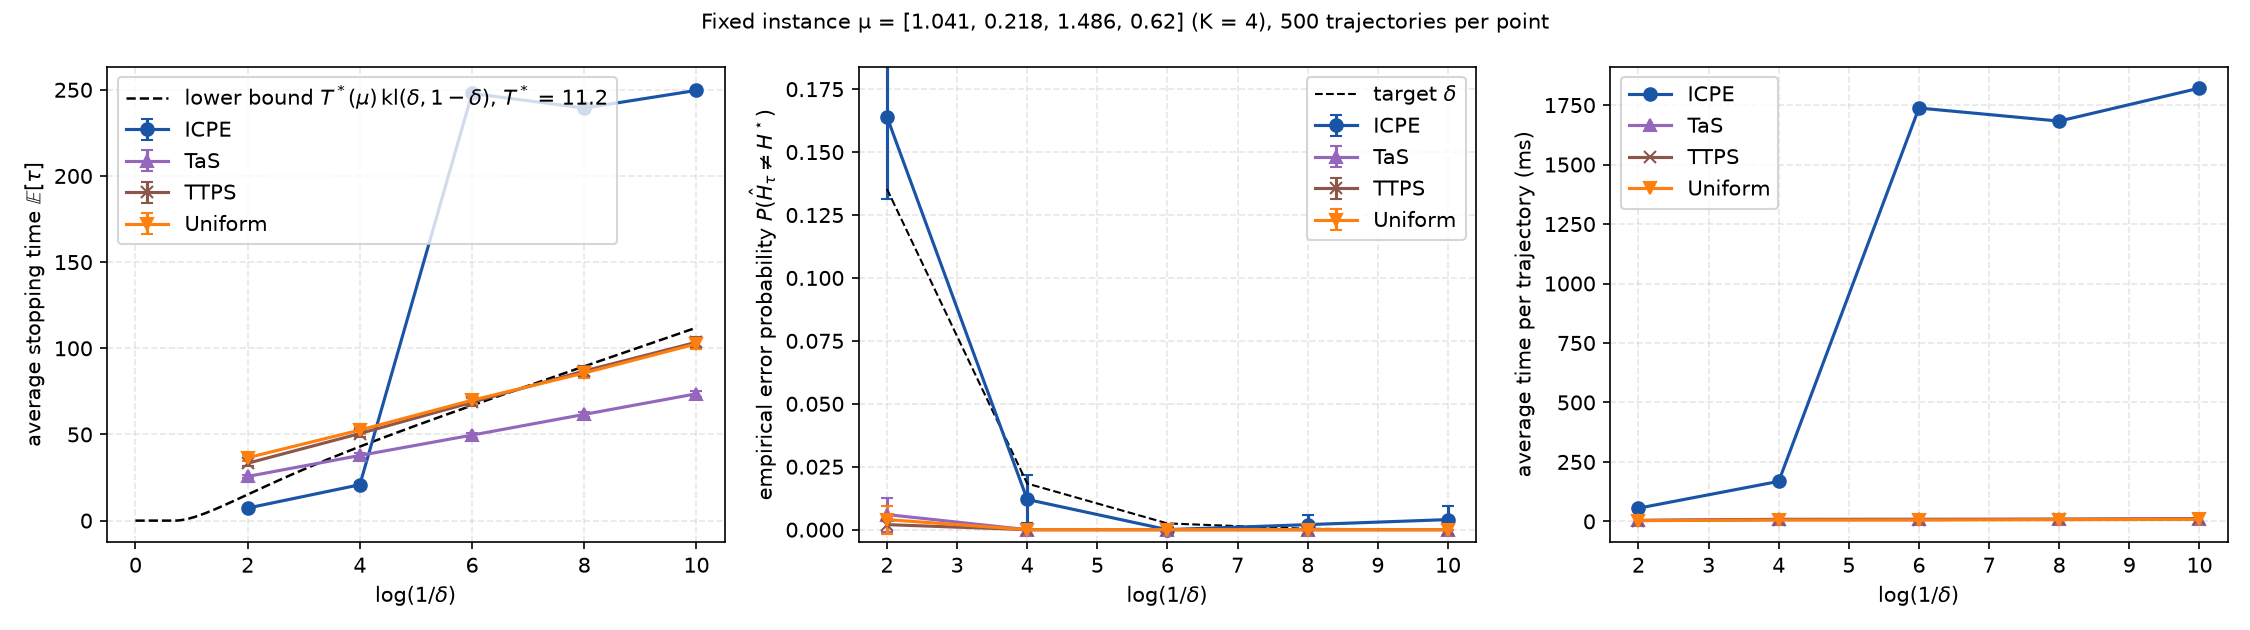
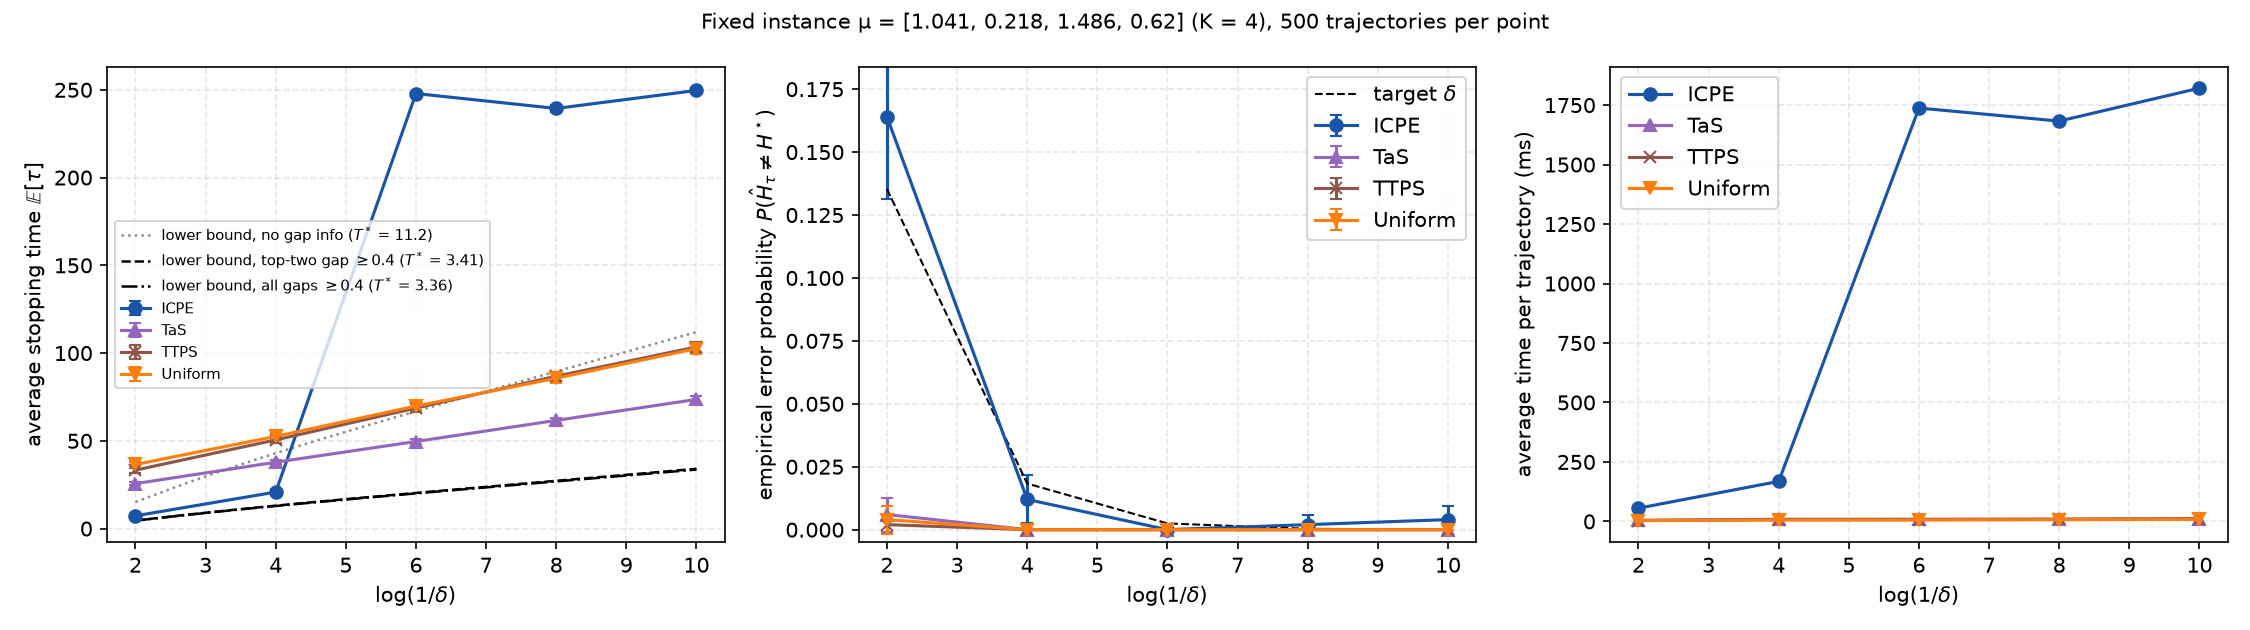
Structured lower bounds (top-two / all gaps >= 0.4); plots start at delta = e^-2

diff --git a/plot_fixed_instance.py b/plot_fixed_instance.py
@@ -3,14 +3,20 @@ Plots for eval_fixed_instance.py (NEW CODE, not from the ICPE repository).
 
 Reads <dir>/summary.csv and <dir>/environment.json and saves
   <dir>/tau_vs_log_delta.png        average stopping time vs log(1/delta), one line per algorithm (95% CI),
-                                    with the lower bound T*(mu) kl(delta, 1 - delta) of the fixed instance
+                                    with three lower bounds T*_S(mu) kl(delta, 1 - delta) of the fixed instance:
+                                    S = all Gaussian bandits (no gap information), S = bandits whose best arm
+                                    beats every other arm by >= gap (the class of Thm. B.25), and S = bandits
+                                    whose arms all differ by >= gap (the prior used in the code)
+  <dir>/lower_bounds.json            the three T*_S(mu) and optimal weights (cached; recomputed if mu changes)
   <dir>/fixed_instance_panels.png   (a) average stopping time, (b) empirical error probability with the
                                     target delta, (c) average wall time per trajectory
 
 Usage: python plot_fixed_instance.py [--dir runs_delta_sweep/fixed_instance]
 """
 import argparse
+import itertools
 import json
+import math
 import os
 import numpy as np
 import pandas as pd
@@ -55,9 +61,116 @@ def lower_bound(means: np.ndarray, sigma: float, deltas: np.ndarray) -> np.ndarr
 STYLE = {'ICPE': ('#1a54a6', 'o'), 'TaS': ('#9467bd', '^'), 'TTPS': ('#8c564b', 'x'), 'Uniform': ('#ff7f0e', 'v')}
 
 
+def _pava(y: np.ndarray, w: np.ndarray) -> np.ndarray:
+    """Weighted isotonic (non-decreasing) regression of y with weights w (pool adjacent violators)."""
+    blocks = []                                        # [value, weight, length]
+    for yi, wi in zip(y, w):
+        blocks.append([yi, wi, 1])
+        while len(blocks) > 1 and blocks[-2][0] > blocks[-1][0]:
+            v2, w2, n2 = blocks.pop()
+            v1, w1, n1 = blocks.pop()
+            blocks.append([(v1 * w1 + v2 * w2) / (w1 + w2), w1 + w2, n1 + n2])
+    return np.array([v for v, _, n in blocks for _ in range(n)])
+
+
+def _closest_alternative_all(mu, w, gap, best):
+    """min of sum_a w_a (mu_a - lambda_a)^2 over lambda whose arms all differ by >= gap and whose best arm
+    is not `best`: for each order of the arms the constraints are linear, and substituting
+    nu_i = lambda_(i) - i*gap turns them into an isotonic regression."""
+    K, val = len(mu), np.inf
+    shift = gap * np.arange(K)
+    for perm in itertools.permutations(range(K)):      # perm = arms in increasing order of lambda
+        if perm[-1] == best:
+            continue
+        p = np.array(perm)
+        lam = _pava(mu[p] - shift, w[p] + 1e-15) + shift
+        val = min(val, float(np.sum(w[p] * (mu[p] - lam) ** 2)))
+    return val
+
+
+def _closest_alternative_top2(mu, w, gap, best):
+    """min of sum_a w_a (mu_a - lambda_a)^2 over lambda whose best arm b != `best` beats every other arm by
+    >= gap: for fixed lambda_b = x the others are lowered to min(mu_c, x - gap); convex in x (ternary search)."""
+    val = np.inf
+    for b in range(len(mu)):
+        if b == best:
+            continue
+        others = [c for c in range(len(mu)) if c != b]
+        g = lambda x: w[b] * (mu[b] - x) ** 2 + sum(w[c] * max(0.0, mu[c] - (x - gap)) ** 2 for c in others)
+        lo, hi = mu.min() - 2.0, mu.max() + 2.0
+        for _ in range(80):
+            m1, m2 = lo + (hi - lo) / 3, hi - (hi - lo) / 3
+            if g(m1) < g(m2):
+                hi = m2
+            else:
+                lo = m1
+        val = min(val, g((lo + hi) / 2))
+    return val
+
+
+def structured_characteristic_time(means: np.ndarray, sigma: float, gap: float, mode: str,
+                                   iters: int = 800, seed: int = 0) -> tuple:
+    """T*_S(mu) for Gaussian BAI over a restricted class S (Garivier and Kaufmann, 2016, with structure):
+
+        T*_S(mu)^-1 = max_w  min_{lambda in S, best(lambda) != best(mu)}  sum_a w_a (mu_a - lambda_a)^2 / (2 sigma^2)
+
+    mode='top2': S = bandits whose best arm beats every other arm by >= gap (Thm. B.25; gap = 0 gives the usual T*);
+    mode='all' : S = bandits whose arms all differ by >= gap (the prior of the code: minimum_gap_sampling).
+    The objective is concave in w; it is maximised by exponentiated (super)gradient ascent from several starts.
+    Any algorithm that is delta-correct on every bandit of S needs E[tau] >= T*_S(mu) kl(delta, 1 - delta).
+    """
+    mu = np.asarray(means, float)
+    K, best = len(mu), int(np.argmax(mu))
+    inner = _closest_alternative_all if mode == 'all' else _closest_alternative_top2
+    F = lambda w: inner(mu, w, gap, best) / (2 * sigma ** 2)
+    rng = np.random.default_rng(seed)
+    best_val, best_w = -1.0, None
+    for w in [np.ones(K) / K] + [rng.dirichlet(np.ones(K)) for _ in range(3)]:
+        w = w.copy()
+        for k in range(1, iters + 1):
+            f = F(w)
+            if f > best_val:
+                best_val, best_w = f, w.copy()
+            eps = 1e-6
+            gr = np.array([(F(w + eps * np.eye(K)[a]) - f) / eps for a in range(K)])
+            w = w * np.exp(0.5 / math.sqrt(k) * gr / (np.abs(gr).max() + 1e-12))
+            w /= w.sum()
+    return 1.0 / best_val, best_w
+
+
+def characteristic_times(means: np.ndarray, sigma: float, gap: float, cache: str = None) -> dict:
+    """The three T*_S(mu) used in the plots and the results table (cached in `cache` as JSON)."""
+    key = {'means': [round(float(m), 10) for m in means], 'sigma': sigma, 'gap': gap}
+    if cache and os.path.exists(cache):
+        with open(cache) as f:
+            c = json.load(f)
+        if c.get('key') == key:
+            return c['T']
+    T0, w0 = characteristic_time(np.asarray(means, float), sigma)
+    T1, w1 = structured_characteristic_time(means, sigma, gap, 'top2')
+    T2, w2 = structured_characteristic_time(means, sigma, gap, 'all')
+    T = {'none': T0, 'top2': T1, 'all': T2}
+    if cache:
+        with open(cache, 'w') as f:
+            json.dump({'key': key, 'T': T, 'weights': {'none': list(map(float, w0)), 'top2': list(map(float, w1)),
+                       'all': list(map(float, w2))}}, f, indent=2)
+    return T
+
+
+LB_LABELS = {'none': 'Lower bound, no gap information', 'top2': 'Lower bound, top-two gap ≥ 0.4',
+             'all': 'Lower bound, all gaps ≥ 0.4'}
+
+
+def lower_bounds(T: dict, deltas: np.ndarray) -> dict:
+    """E[tau] >= T*_S kl(delta, 1 - delta) for delta < 1/2 (0 otherwise), for each class S."""
+    kl = np.array([kl_bernoulli(d, 1 - d) if d < 0.5 else 0.0 for d in deltas])
+    return {k: v * kl for k, v in T.items()}
+
+
 def main():
     p = argparse.ArgumentParser()
     p.add_argument('--dir', default='runs_delta_sweep/fixed_instance')
+    p.add_argument('--gap', type=float, default=0.4, help='known minimum gap used by the structured lower bounds')
     a = p.parse_args()
     df = pd.read_csv(os.path.join(a.dir, 'summary.csv'))
     with open(os.path.join(a.dir, 'environment.json')) as f:
@@ -68,13 +181,17 @@ def main():
              f"{n} trajectories per point")
 
     means, sigma = np.array(env['means']), float(env['stds'][0])
-    T, w = characteristic_time(means, sigma)
-    print(f'T*(mu) = {T:.3f}, optimal weights w* = {np.round(w, 3)}')
-    xs_lb = np.linspace(0, float(df.log_inv_delta.max()), 200)
-    lb = lower_bound(means, sigma, np.exp(-xs_lb))
+    T = characteristic_times(means, sigma, a.gap, cache=os.path.join(a.dir, 'lower_bounds.json'))
+    print('T*_S(mu): ' + ', '.join(f'{k} = {v:.3f}' for k, v in T.items()))
+    xs_lb = np.linspace(float(df.log_inv_delta.min()), float(df.log_inv_delta.max()), 200)   # only the evaluated range
+    lbs = lower_bounds(T, np.exp(-xs_lb))
+    lb_style = {'none': dict(color='0.55', ls=':', label=rf'lower bound, no gap info ($T^*$ = {T["none"]:.1f})'),
+                'top2': dict(color='k', ls='--', label=rf'lower bound, top-two gap $\geq${a.gap:g} ($T^*$ = {T["top2"]:.2f})'),
+                'all':  dict(color='k', ls='-.', label=rf'lower bound, all gaps $\geq${a.gap:g} ($T^*$ = {T["all"]:.2f})')}
 
     def tau_panel(ax):
-        ax.plot(xs_lb, lb, 'k--', lw=1.2, label=rf'lower bound $T^*(\mu)\,\mathrm{{kl}}(\delta,1-\delta)$, $T^*$ = {T:.1f}')
+        for k in ['none', 'top2', 'all']:
+            ax.plot(xs_lb, lbs[k], lw=1.2, **lb_style[k])
         for algo in algos:
             d = df[df.algo == algo].sort_values('log_inv_delta')
             c, m = STYLE[algo]
@@ -82,7 +199,7 @@ def main():
         ax.set_xlabel(r'$\log(1/\delta)$')
         ax.set_ylabel(r'average stopping time $\mathbb{E}[\tau]$')
         ax.grid(True, linestyle='--', alpha=0.3)
-        ax.legend()
+        ax.legend(fontsize=7)
 
     fig, ax = plt.subplots(figsize=(6, 4.2))
     tau_panel(ax)

diff --git a/make_results_table.py b/make_results_table.py
@@ -8,7 +8,8 @@ per (delta, algorithm):
   arm / all trajectories), empirical error probability (1 - accuracy), and the number of trajectories that
   never reached a_stop (every trajectory runs until a_stop; this count checks that all of them did, i.e.
   that ICPE never ran out of its N input positions; the baselines have no limit)
-plus, for every delta, a row with the lower bound T*(mu) kl(delta, 1 - delta) of the fixed instance
+plus, for every delta, three lower-bound rows T*_S(mu) kl(delta, 1 - delta) of the fixed instance (no gap
+information; top-two gap >= 0.4; all gaps >= 0.4), see plot_fixed_instance.characteristic_times
 as <dir>/results_table.csv (numbers) and <dir>/results_table.md (formatted, for reading or pasting).
 
 Usage: python make_results_table.py [--dir runs_delta_sweep/fixed_instance]
@@ -18,7 +19,7 @@ import json
 import os
 import numpy as np
 import pandas as pd
-from plot_fixed_instance import lower_bound
+from plot_fixed_instance import characteristic_times, lower_bounds, LB_LABELS
 
 ORDER = ['ICPE', 'TaS', 'TTPS', 'Uniform']
 
@@ -34,7 +35,6 @@ def main():
 
     df['algo_rank'] = df.algo.map({x: i for i, x in enumerate(ORDER)})
     df = df.sort_values(['log_inv_delta', 'algo_rank'])
-    LB = 'Lower bound T*(μ)·kl(δ,1−δ)'
     table = pd.DataFrame({
         'delta': df.delta,
         'log_inv_delta': df.log_inv_delta,
@@ -50,11 +50,14 @@ def main():
         'never_reached_a_stop': df.not_stopped,
     })
     xs = np.sort(df.log_inv_delta.unique())
-    lbs = lower_bound(np.array(env['means']), float(env['stds'][0]), np.exp(-xs))
-    lb_rows = pd.DataFrame({'delta': np.exp(-xs), 'log_inv_delta': xs, 'K': K, 'algorithm': LB,
-                            'avg_stopping_time': lbs})
+    T = characteristic_times(np.array(env['means']), float(env['stds'][0]), 0.4,
+                             cache=os.path.join(a.dir, 'lower_bounds.json'))
+    lbs = lower_bounds(T, np.exp(-xs))
+    lb_rows = pd.concat([pd.DataFrame({'delta': np.exp(-xs), 'log_inv_delta': xs, 'K': K, 'algorithm': LB_LABELS[k],
+                                       'avg_stopping_time': lbs[k]}) for k in ['none', 'top2', 'all']])
     table = pd.concat([table, lb_rows], ignore_index=True)
-    table['rank'] = table.algorithm.map({x: i for i, x in enumerate(ORDER + [LB])})
+    LBS = [LB_LABELS[k] for k in ['none', 'top2', 'all']]
+    table['rank'] = table.algorithm.map({x: i for i, x in enumerate(ORDER + LBS)})
     table = table.sort_values(['log_inv_delta', 'rank']).drop(columns='rank')
     table.to_csv(os.path.join(a.dir, 'results_table.csv'), index=False)
 
@@ -67,8 +70,8 @@ def main():
     for _, r in table.iterrows():
         x = r.log_inv_delta
         dlt = 'e^0 = 1' if x == 0 else f'e^-{x:g} = {r.delta:.3g}'
-        if r.algorithm == LB:
-            lines.append('| ' + ' | '.join([dlt, f'{x:g}', str(K), LB, '—', f'{r.avg_stopping_time:.2f}',
+        if r.algorithm in LBS:
+            lines.append('| ' + ' | '.join([dlt, f'{x:g}', str(K), r.algorithm, '—', f'{r.avg_stopping_time:.2f}',
                                             '—', '—', '—', '—']) + ' |')
             continue
         err = f'{r.error_probability:.4f}' if r.error_probability > 0 else f'0 (< {3 / r.trajectories:.4f})'

diff --git a/runs_delta_sweep/fixed_instance/results_table.md b/runs_delta_sweep/fixed_instance/results_table.md
@@ -6,24 +6,34 @@ Fixed instance μ = [1.0411, 0.218, 1.4861, 0.6195] (best arm 2), env_seed 0; tr
 | e^-2 = 0.135 | 2 | 4 | TaS | 500 | 25.64 ± 0.99 | 4.61 | 0.9940 (497 / 500) | 0.0060 | 0 |
 | e^-2 = 0.135 | 2 | 4 | TTPS | 500 | 33.31 ± 1.48 | 3.82 | 0.9980 (499 / 500) | 0.0020 | 0 |
 | e^-2 = 0.135 | 2 | 4 | Uniform | 500 | 36.52 ± 1.66 | 3.39 | 0.9960 (498 / 500) | 0.0040 | 0 |
-| e^-2 = 0.135 | 2 | 4 | Lower bound T*(μ)·kl(δ,1−δ) | — | 15.15 | — | — | — | — |
+| e^-2 = 0.135 | 2 | 4 | Lower bound, no gap information | — | 15.15 | — | — | — | — |
+| e^-2 = 0.135 | 2 | 4 | Lower bound, top-two gap ≥ 0.4 | — | 4.61 | — | — | — | — |
+| e^-2 = 0.135 | 2 | 4 | Lower bound, all gaps ≥ 0.4 | — | 4.55 | — | — | — | — |
 | e^-4 = 0.0183 | 4 | 4 | ICPE | 500 | 20.82 ± 1.73 | 168.37 | 0.9880 (494 / 500) | 0.0120 | 0 |
 | e^-4 = 0.0183 | 4 | 4 | TaS | 500 | 37.82 ± 1.22 | 8.91 | 1.0000 (500 / 500) | 0 (< 0.0060) | 0 |
 | e^-4 = 0.0183 | 4 | 4 | TTPS | 500 | 50.53 ± 1.86 | 8.00 | 1.0000 (500 / 500) | 0 (< 0.0060) | 0 |
 | e^-4 = 0.0183 | 4 | 4 | Uniform | 500 | 52.55 ± 2.04 | 5.74 | 1.0000 (500 / 500) | 0 (< 0.0060) | 0 |
-| e^-4 = 0.0183 | 4 | 4 | Lower bound T*(μ)·kl(δ,1−δ) | — | 42.96 | — | — | — | — |
+| e^-4 = 0.0183 | 4 | 4 | Lower bound, no gap information | — | 42.96 | — | — | — | — |
+| e^-4 = 0.0183 | 4 | 4 | Lower bound, top-two gap ≥ 0.4 | — | 13.07 | — | — | — | — |
+| e^-4 = 0.0183 | 4 | 4 | Lower bound, all gaps ≥ 0.4 | — | 12.89 | — | — | — | — |
 | e^-6 = 0.00248 | 6 | 4 | ICPE | 500 | 247.88 ± 0.70 | 1737.66 | 1.0000 (500 / 500) | 0 (< 0.0060) | 0 |
 | e^-6 = 0.00248 | 6 | 4 | TaS | 500 | 49.63 ± 1.42 | 9.57 | 1.0000 (500 / 500) | 0 (< 0.0060) | 0 |
 | e^-6 = 0.00248 | 6 | 4 | TTPS | 500 | 68.68 ± 2.32 | 7.55 | 1.0000 (500 / 500) | 0 (< 0.0060) | 0 |
 | e^-6 = 0.00248 | 6 | 4 | Uniform | 500 | 69.83 ± 2.43 | 6.09 | 1.0000 (500 / 500) | 0 (< 0.0060) | 0 |
-| e^-6 = 0.00248 | 6 | 4 | Lower bound T*(μ)·kl(δ,1−δ) | — | 66.83 | — | — | — | — |
+| e^-6 = 0.00248 | 6 | 4 | Lower bound, no gap information | — | 66.83 | — | — | — | — |
+| e^-6 = 0.00248 | 6 | 4 | Lower bound, top-two gap ≥ 0.4 | — | 20.33 | — | — | — | — |
+| e^-6 = 0.00248 | 6 | 4 | Lower bound, all gaps ≥ 0.4 | — | 20.06 | — | — | — | — |
 | e^-8 = 0.000335 | 8 | 4 | ICPE | 500 | 239.39 ± 1.91 | 1682.70 | 0.9980 (499 / 500) | 0.0020 | 1 |
 | e^-8 = 0.000335 | 8 | 4 | TaS | 500 | 61.65 ± 1.62 | 8.65 | 1.0000 (500 / 500) | 0 (< 0.0060) | 0 |
 | e^-8 = 0.000335 | 8 | 4 | TTPS | 500 | 86.82 ± 2.68 | 9.72 | 1.0000 (500 / 500) | 0 (< 0.0060) | 0 |
 | e^-8 = 0.000335 | 8 | 4 | Uniform | 500 | 85.66 ± 2.78 | 7.53 | 1.0000 (500 / 500) | 0 (< 0.0060) | 0 |
-| e^-8 = 0.000335 | 8 | 4 | Lower bound T*(μ)·kl(δ,1−δ) | — | 89.53 | — | — | — | — |
+| e^-8 = 0.000335 | 8 | 4 | Lower bound, no gap information | — | 89.53 | — | — | — | — |
+| e^-8 = 0.000335 | 8 | 4 | Lower bound, top-two gap ≥ 0.4 | — | 27.24 | — | — | — | — |
+| e^-8 = 0.000335 | 8 | 4 | Lower bound, all gaps ≥ 0.4 | — | 26.87 | — | — | — | — |
 | e^-10 = 4.54e-05 | 10 | 4 | ICPE | 500 | 249.65 ± 1.31 | 1821.31 | 0.9960 (498 / 500) | 0.0040 | 1 |
 | e^-10 = 4.54e-05 | 10 | 4 | TaS | 500 | 73.61 ± 1.81 | 10.52 | 1.0000 (500 / 500) | 0 (< 0.0060) | 0 |
 | e^-10 = 4.54e-05 | 10 | 4 | TTPS | 500 | 103.50 ± 3.10 | 11.53 | 1.0000 (500 / 500) | 0 (< 0.0060) | 0 |
 | e^-10 = 4.54e-05 | 10 | 4 | Uniform | 500 | 102.57 ± 3.08 | 8.94 | 1.0000 (500 / 500) | 0 (< 0.0060) | 0 |
-| e^-10 = 4.54e-05 | 10 | 4 | Lower bound T*(μ)·kl(δ,1−δ) | — | 111.98 | — | — | — | — |
+| e^-10 = 4.54e-05 | 10 | 4 | Lower bound, no gap information | — | 111.98 | — | — | — | — |
+| e^-10 = 4.54e-05 | 10 | 4 | Lower bound, top-two gap ≥ 0.4 | — | 34.07 | — | — | — | — |
+| e^-10 = 4.54e-05 | 10 | 4 | Lower bound, all gaps ≥ 0.4 | — | 33.61 | — | — | — | — |
